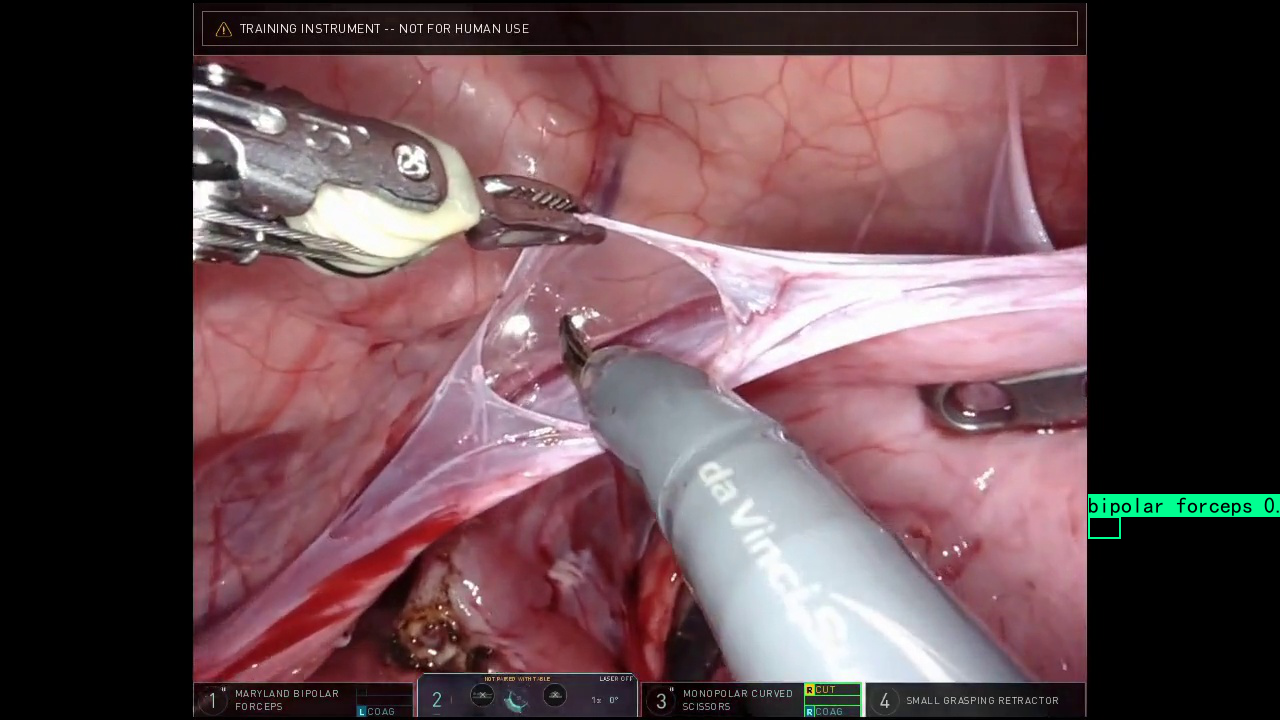
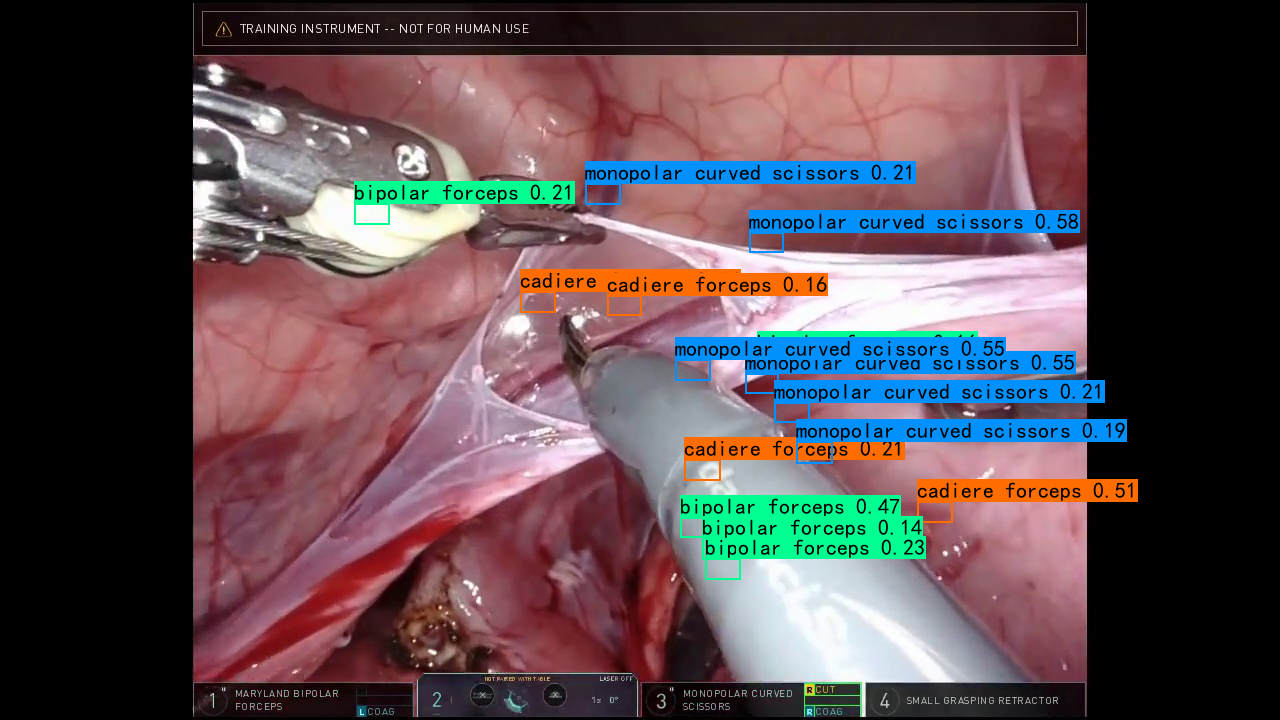
filter sm small boxes

Changed region(s): [[0.5312, 0.4583, 1.0, 0.7944], [0.25, 0.2139, 0.8438, 0.3361], [0.4062, 0.3667, 0.6562, 0.4278]]

diff --git a/tools/mist_train.py b/tools/mist_train.py
@@ -124,9 +124,16 @@ def mist_train(model, train_dataloader, epoches):
                     top_conf_ = top_conf[np.logical_and(top_boxes[:,0]>130, top_boxes[:,2]<1050)]
                     top_label_ = top_label[np.logical_and(top_boxes[:,0]>130, top_boxes[:,2]<1050)]
                     # 过滤掉上下的黑边
-                    top_boxes = top_boxes_[np.logical_and(top_boxes_[:,1]>50, top_boxes_[:,3]<680)]
-                    top_conf = top_conf_[np.logical_and(top_boxes_[:,1]>50, top_boxes_[:,3]<680)]
-                    top_label = top_label_[np.logical_and(top_boxes_[:,1]>50, top_boxes_[:,3]<680)]
+                    top_boxes_1 = top_boxes_[np.logical_and(top_boxes_[:,1]>50, top_boxes_[:,3]<680)]
+                    top_conf_1 = top_conf_[np.logical_and(top_boxes_[:,1]>50, top_boxes_[:,3]<680)]
+                    top_label_1 = top_label_[np.logical_and(top_boxes_[:,1]>50, top_boxes_[:,3]<680)]
+                    
+                    # 过滤掉太小的box
+                    box_w = top_boxes_1[:, 2] - top_boxes_1[:, 0]
+                    box_h = top_boxes_1[:, 3] - top_boxes_1[:, 1]
+                    top_boxes = top_boxes_1[np.logical_and(box_w>100, box_h>100)]
+                    top_conf = top_conf_1[np.logical_and(box_w>100, box_h>100)]
+                    top_label = top_label_1[np.logical_and(box_w>100, box_h>100)]
                     
                 else:
                     flag = False
@@ -202,7 +209,6 @@ def mist_train(model, train_dataloader, epoches):
             roi_cls_loss += roi_cls.item()
 
             if iteration % 1000 == 0:
-                print(f"pseudo_labels_num: {len(pseudo_labels)}")
                 print(pseudo_boxes)
                 print(pseudo_labels)
                 print(f"epoch: {epoch}    iteration: {iteration}    loss: {total_loss / (iteration + 1)}")
